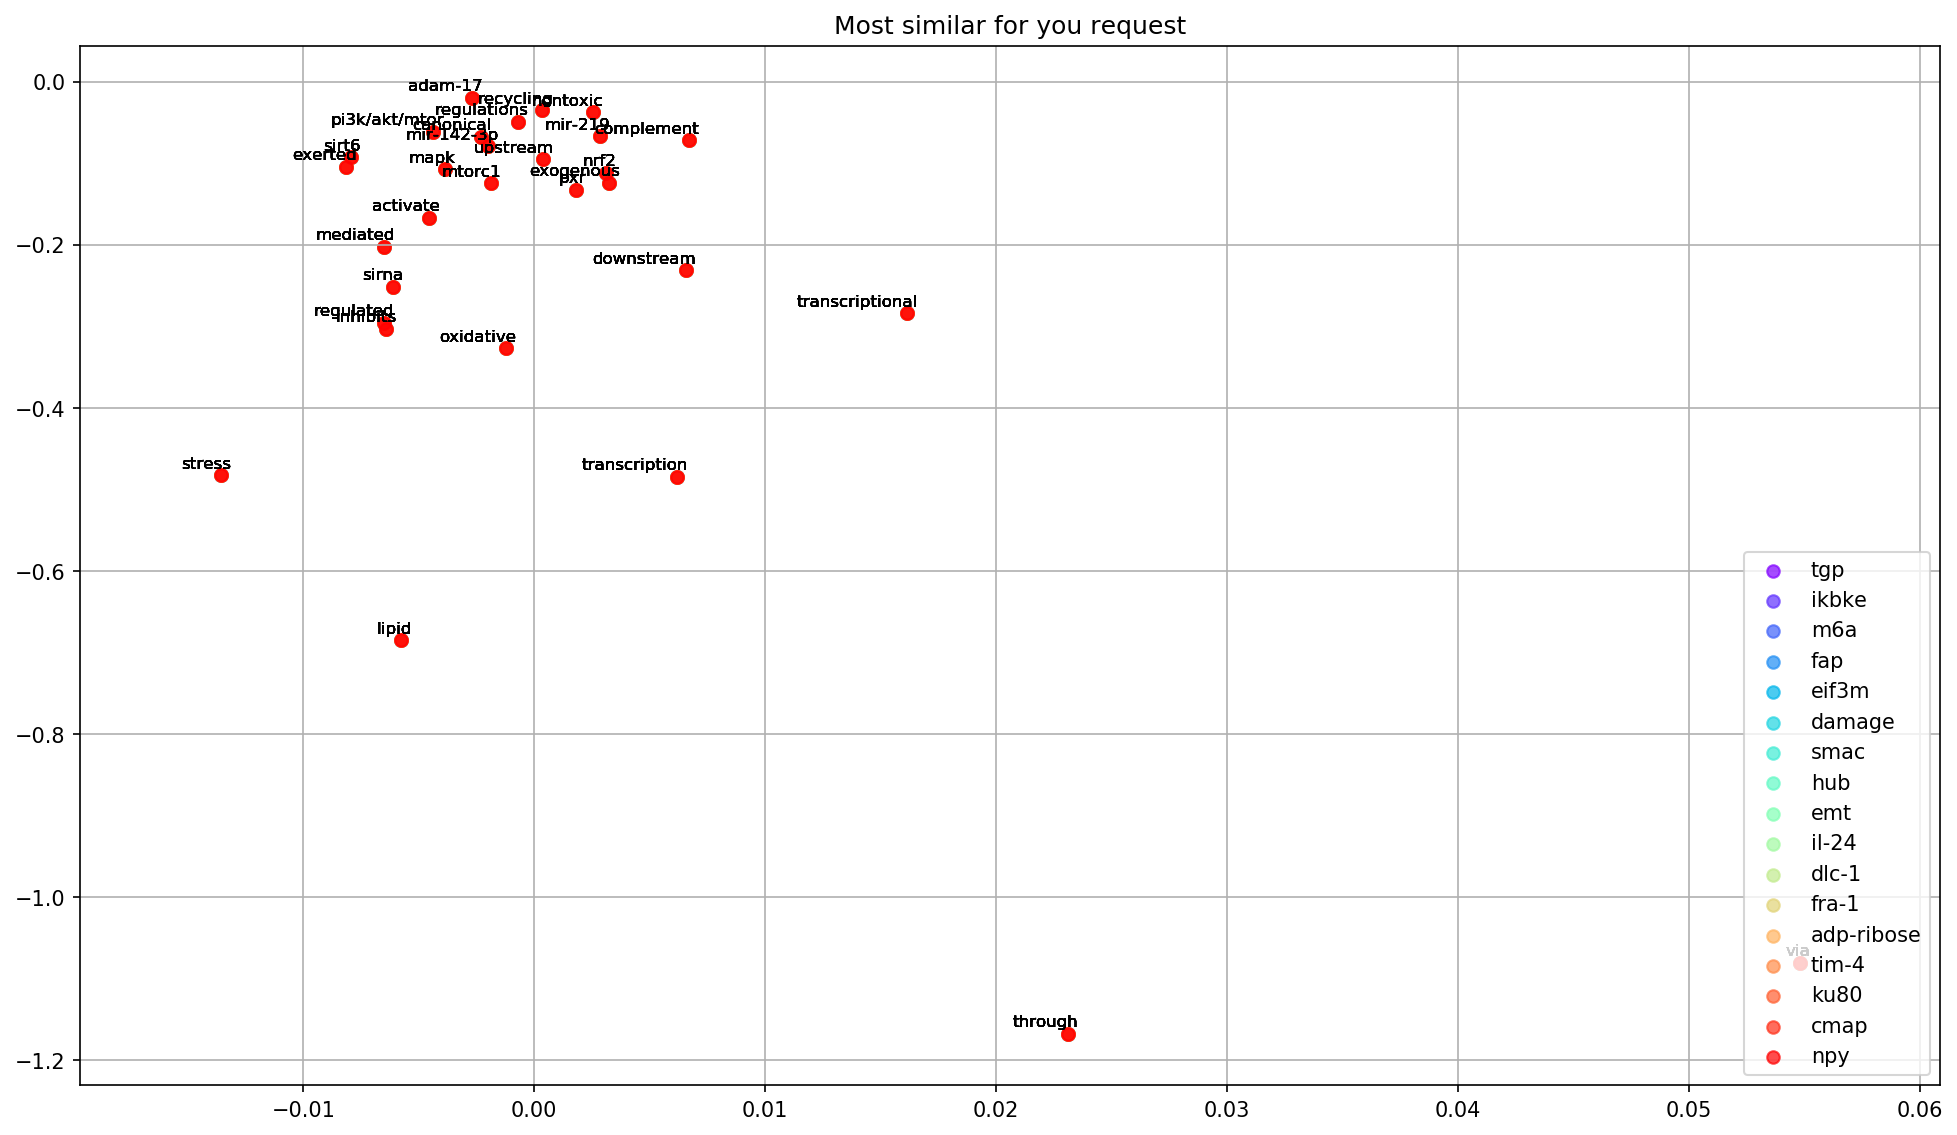
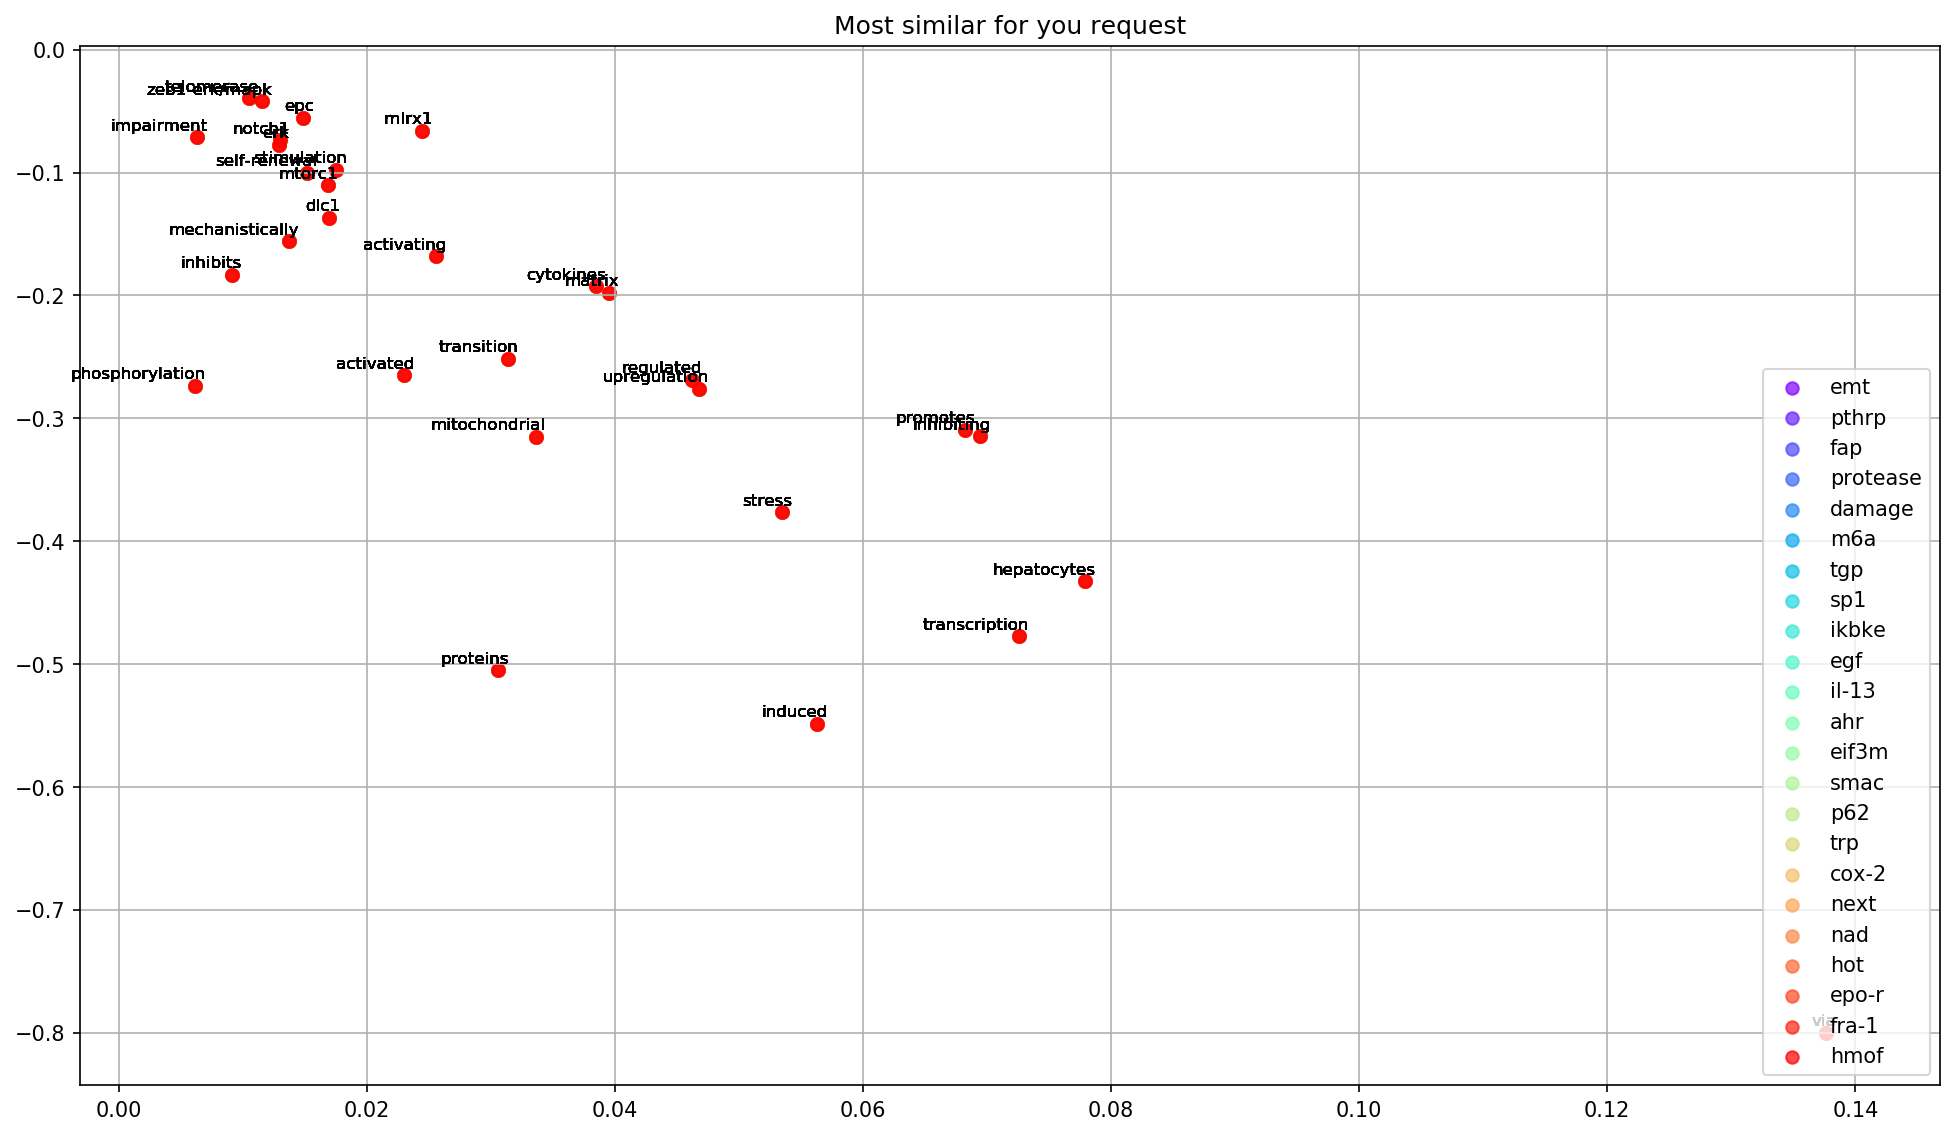
binding

diff --git a/main.py b/main.py
@@ -20,53 +20,52 @@ def page1():
 
 @app.route('/page1', methods=['POST'])
 def my_form_post():
+    #zaimportowanie zapytania z req1.html
     from pymed import PubMed
     text = request.form['text']
-    max =2000
-    #count_vect.fit(text)
+    max =2000  # ilosc zapytan
     text = [text]
+
+    #wporwadzenie zapytania do pubmed
     pubmed = PubMed(tool="MyTool", email="p.karabowicz@gmail.com")
     results1 = pubmed.query(text, max_results=max)
 
+    #przeksztalcenie wynikow zapytania na data frame
     lista_abstract_3=[]
-
     for i in results1:
         lista_abstract_3.append(i.abstract)
     import pandas as pd
     df_abstract = pd.DataFrame(lista_abstract_3, columns = ['abstracts'])
     df_abstract['abstracts_lower'] = df_abstract['abstracts'].str.lower()
+    df_abstract_1 = df_abstract.dropna() #datafraame wynikow do analizy
 
-    df_abstract_1 = df_abstract.dropna()
+    #predykcja
     import pickle
     rnd = pickle.load(open('/home/piotr/projekt2/drugforest/static/finalized_model.sav', 'rb'))
     from sklearn.feature_extraction.text import CountVectorizer
     count_vect = CountVectorizer(analyzer='word', token_pattern=r'\w{1,}', max_features=100)
     result1=count_vect.fit_transform(df_abstract_1['abstracts_lower'])
     result2 = rnd.predict(result1)
-
-    df_abstract_1['class'] = result2
-
+    df_abstract_1['class'] = result2 # dataframe z wynikami
     len_df = len(result2)
+
 #unsupervised learning
     from gensim.models import Word2Vec
     from nltk.corpus import stopwords
-
+    #przygotowanie tekstu do osadzania slow
     stop = stopwords.words('english')
-
     df_abstract_1['abstracts_stop'] = df_abstract_1['abstracts_lower'].apply(lambda x: ' '.join([word for word in x.split() if word not in (stop)]))
     df_abstract_1['tokenized'] = df_abstract_1.apply(lambda row: nltk.word_tokenize(row['abstracts_lower']), axis=1)
     model_ted1 = Word2Vec(sentences=df_abstract_1['tokenized'], size=200, window=10, min_count=1, workers=4, sg=0)
 
-    #plt.show()
-
-    #list list_protein
+    #ekstrackja slow najbardziej podobnych do protein i target
     keys = ['protein', 'target']
     most_sim = model_ted1.wv.most_similar(positive = keys, topn=1000)
-
+    #utworzenie tablicy ze slownika
     most_sim_key = []
     for w, n in most_sim:
         most_sim_key.append(w)
-
+    #tagowanie tekstu i filtrowanie wedlug tagow
     post_tag_list = nltk.pos_tag(most_sim_key)
 
     listNN = []
@@ -85,7 +84,7 @@ def my_form_post():
     for sublist in lista:
         for item in sublist:
             flat_list.append(item)
-
+    #filtrowanie wzgledem bazy bialek
     file = open('/home/piotr/projekt2/drugforest/static/lista_bialek_bez1.txt', "r")
     wprowadzony_tekst = file.read()
 
@@ -99,19 +98,16 @@ def my_form_post():
         wt2.append(w)
 
     wt2 = [x.lower() for x in wt2 ]
-
-    tablica_in =[]
+    tablica_in =[] #lista wyekstrahowanych bialek
     for w in flat_list:
         if w in wt2:
             tablica_in.append(w)
 
-    # percent true
+    # predykcja dla zapytan z tablica_in
     import sklearn
     from sklearn.feature_extraction.text import CountVectorizer
-    from pymed import PubMed
     import time
 
-    #count_vect = CountVectorizer(analyzer='word', token_pattern=r'\w{1,}', max_features=100)
     def query(list_target):
         pubmed = PubMed(tool="MyTool", email="p.karabowicz@gmail.com")
         lista=[]
@@ -123,7 +119,6 @@ def my_form_post():
     def lista_bastract_pred1(lista):
         lista_abstract_pred=[]
         for n in lista:
-        #for k in n:
                 lista_abstract_pred.append(n.abstract)
         return lista_abstract_pred
 
@@ -167,9 +162,8 @@ def my_form_post():
     df_list = df_list.reset_index()
 
     df_abstract_1 = df_abstract_1[['abstracts', 'class']]
-    #result3 = str(result2)
 
-    #plot
+#plot
     embedding_clusters = []
     word_clusters = []
     embeddings = []
@@ -212,6 +206,49 @@ def my_form_post():
     plt.grid(True)
     if filename:
         plt.savefig(filename, format='png', dpi=150, bbox_inches='tight')
+
+#binding study:)
+    list_query_prot=[]
+    for w in tablica_in:
+        query3 = "(2002:2017[dp])"+ ' AND '+ w
+        list_query_prot.append(query3)
+    for w in list_query_prot:
+        w.replace("'", "")
+    lista_prot = []
+    for k in list_query_prot:
+        time.sleep(1)
+        lista_prot.append(pubmed.query(k, max_results=300))
+    lista_abstract_prot=[]
+    for w in lista_prot:
+        for k in w:
+            lista_abstract_prot.append(k.abstract)
+
+    df_abstract_prot = pd.DataFrame(lista_abstract_prot, columns = ['abstracts'])
+    df_abstract_prot['abstracts_lower'] = df_abstract_prot['abstracts'].str.lower()
+    df_abstract_prot = df_abstract_prot.dropna()
+    stop = stopwords.words('english')
+    df_abstract_prot['abstracts_stop'] = df_abstract_prot['abstracts_lower'].apply(lambda x: ' '.join([word for word in x.split() if word not in (stop)]))
+    df_abstract_prot['tokenized'] = df_abstract_prot.apply(lambda row: nltk.word_tokenize(row['abstracts_stop']), axis=1)
+
+    #model na tablica_in
+    EMB_DIM = 300
+    from gensim.models import Word2Vec
+    model_ted_prot = Word2Vec(sentences=df_abstract_prot['tokenized'], size=EMB_DIM, window=20, min_count=1, workers=4, sg=1)
+
+    lll = []
+    l1 = []
+    db = []
+    for w in tablica_in:
+        if w in model_ted_prot.wv.vocab:
+            a = model_ted_prot.wv.most_similar(positive = [w,'ligand'], topn=20)
+            lll.append(a)
+            l1.append(w)
+        else:
+            db.append(w)
+
+    pd.options.display.max_colwidth = 1000
+    df_ligand = pd.DataFrame(list(zip(lll, l1)), columns = ['ligands', 'protein']) #dataframe ligand
+#template
     return render_template('index22.html', len_df = len_df,
                             lista_abstract=[df_abstract_1.to_html(classes='data')],
                             text=text, titles=df_abstract_1.columns.values,
